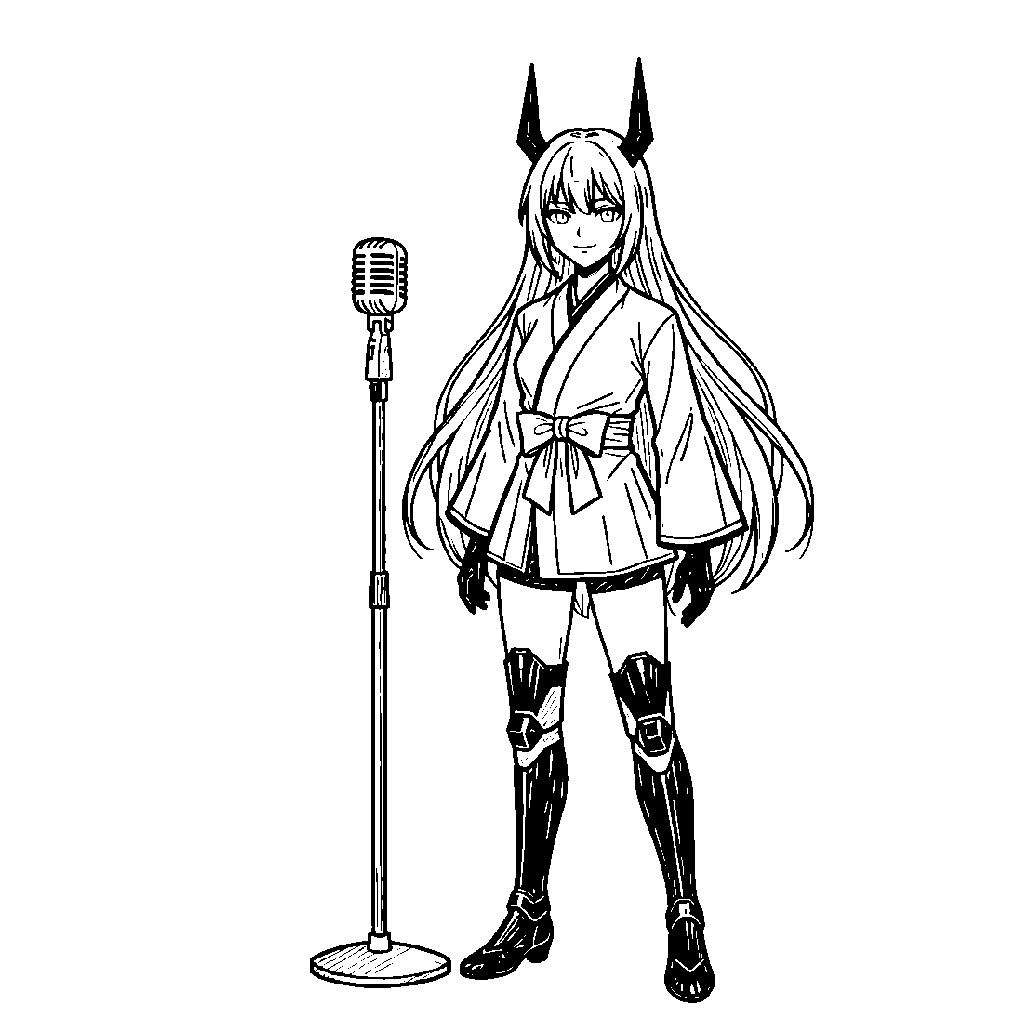
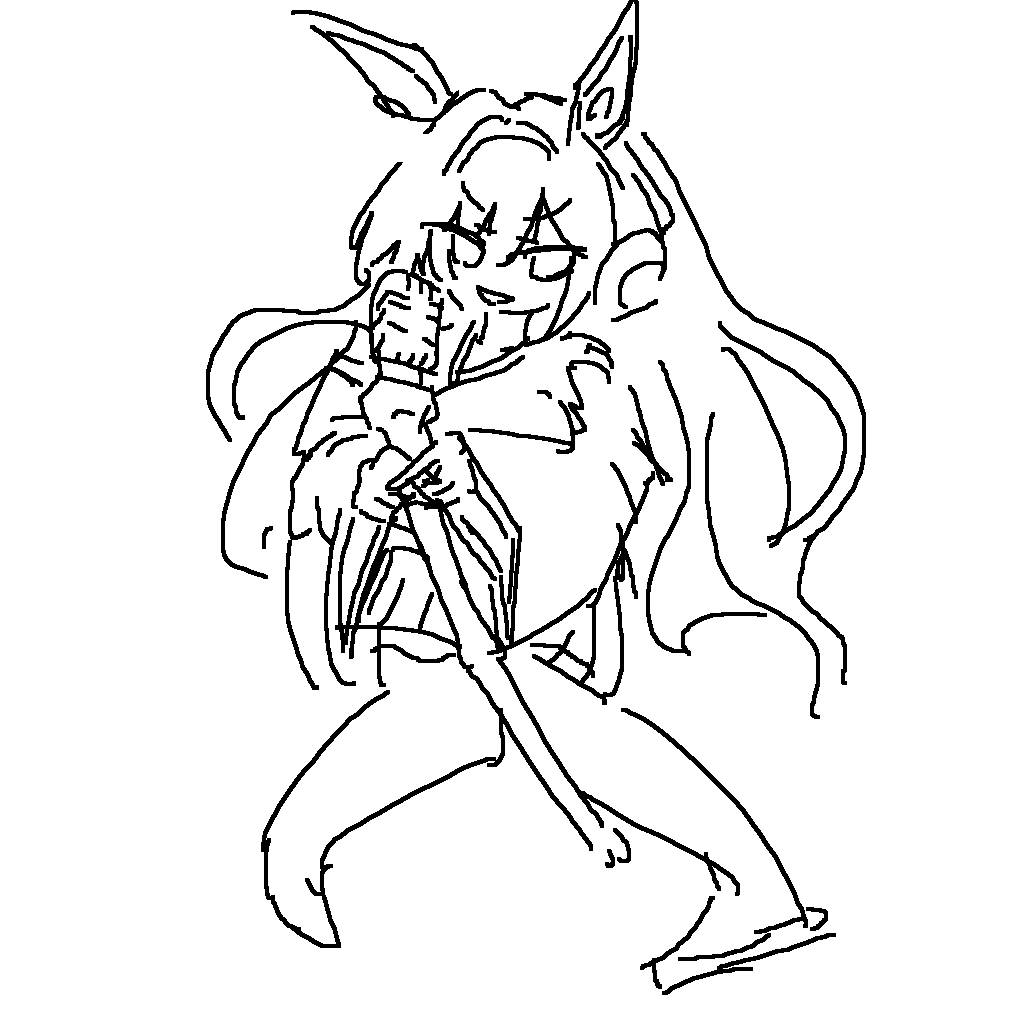
解音ゼロ3機の 立ち絵を 手描きに 更新

diff --git a/ART_TODO.md b/ART_TODO.md
@@ -13,8 +13,8 @@
 |---|---|---|---|
 | 革命シヨ（倉庫番） | `portraits/shiyo.png` | 描いてあります | 16歳・金髪ポニテ（赤い 髪ゴム）・猫耳カチューシャ・丸眼鏡・赤い目・紺の メイド服に 白エプロン。気が強い ツンデレ |
 | 解音ゼロ VHz8-0・メインさん（帳簿・記録） | `portraits/zero.png` | 描いてあります | 束音ロゼの 反転：うすい 金髪ロング・青い 耳の パーツ（アンドロイド）・水色の 目・白い 着物に 青い 帯・紺の 袴 |
-| 解音ゼロ HeBc-0・プロト（村の 住人） | `portraits/zero_proto.png` | Claude が 画像生成AIで 作った 仮（公式の AI絵を 線画に → 線を 荒く → 2値化。頭身は 公式どおりで、会話では 胸から 上だけ） | 公式の サブ機（AI生成）。まっすぐな 長い 金髪・切りはなした 長い 袖・肩出し・機械の ひざ・無表情 |
-| 解音ゼロ XQxS-0・レン（村の 住人） | `portraits/zero_ren.png` | Claude が 画像生成AIで 作った 仮（同上） | 公式の サブ機（AI生成）。先が 青い 金髪・黒い 角・黒い 脚の よろい・マイクスタンド |
+| 解音ゼロ HeBc-0・プロト（村の 住人） | `portraits/zero_proto.png` | 描いてあります | 公式の サブ機（AI生成）。まっすぐな 長い 金髪・切りはなした 長い 袖・肩出し・機械の ひざ・無表情 |
+| 解音ゼロ XQxS-0・レン（村の 住人） | `portraits/zero_ren.png` | 描いてあります | 公式の サブ機（AI生成）。先が 青い 金髪・黒い 角・黒い 脚の よろい・マイクスタンド |
 | 春音リノ（村の 住人） | `portraits/rino.png` | 描いてあります | 女・45歳・カーキの 軍服と 軍帽・髪は「アバンギャルドメタリック」（歩行グラでは 銀紫）・小物は 銃みたいな コッペパン。ドSで 口数が 少ない |
 | 響化アル（村の 住人） | `portraits/aru.png` | 描いてあります | 男・18歳・177cm・紺の 長めの マッシュ・眼鏡・しぶきの ついた 黒い 長コートに ネクタイ（公式の 立ち絵）・科学部。いちばん 新しい 子で、キリコを 先輩と 呼ぶ |
 | ヒナリー（村の 住人） | `portraits/hinary.png` | 描いてあります（rpg と 同じ 絵。全身なので 会話では 胸から 上だけ） | 白衣・青い 髪の ツインテール。避難Jの 研究者で フェリスの 相方 |
